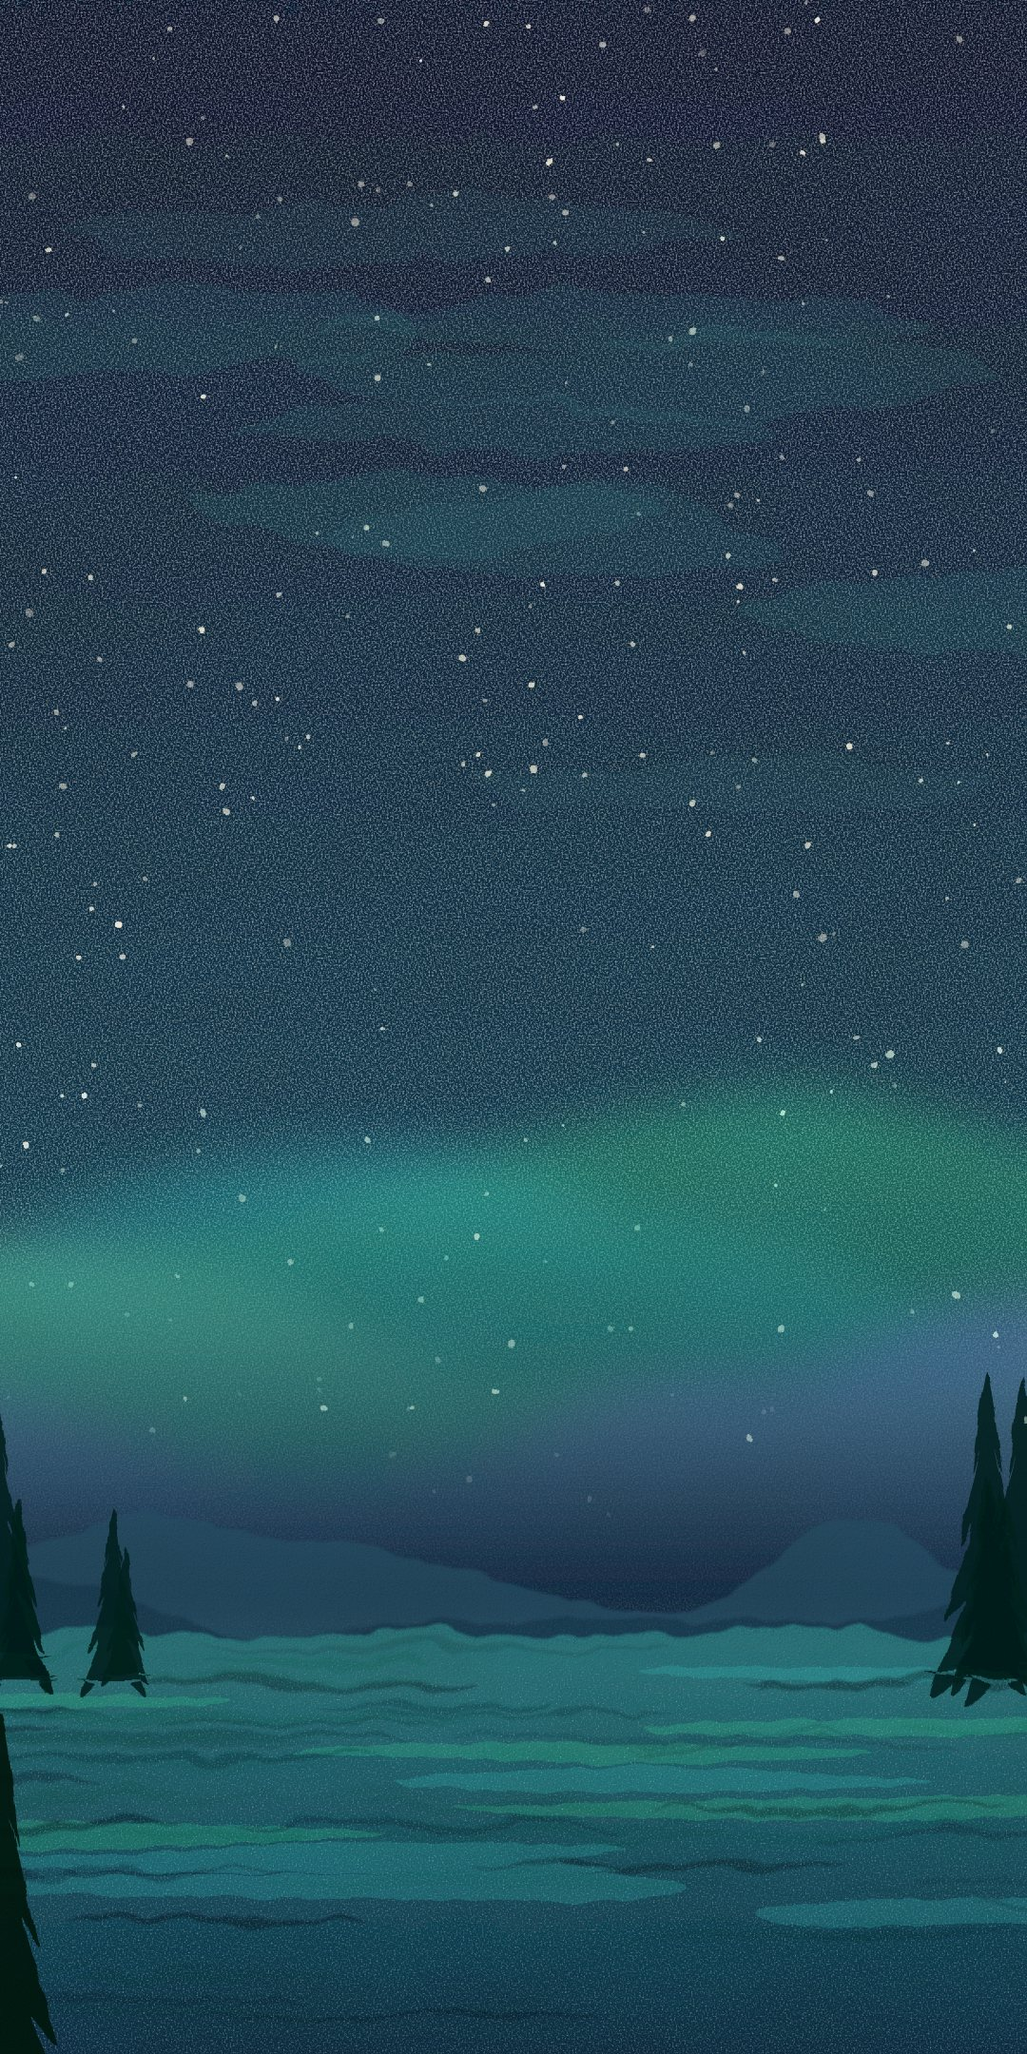
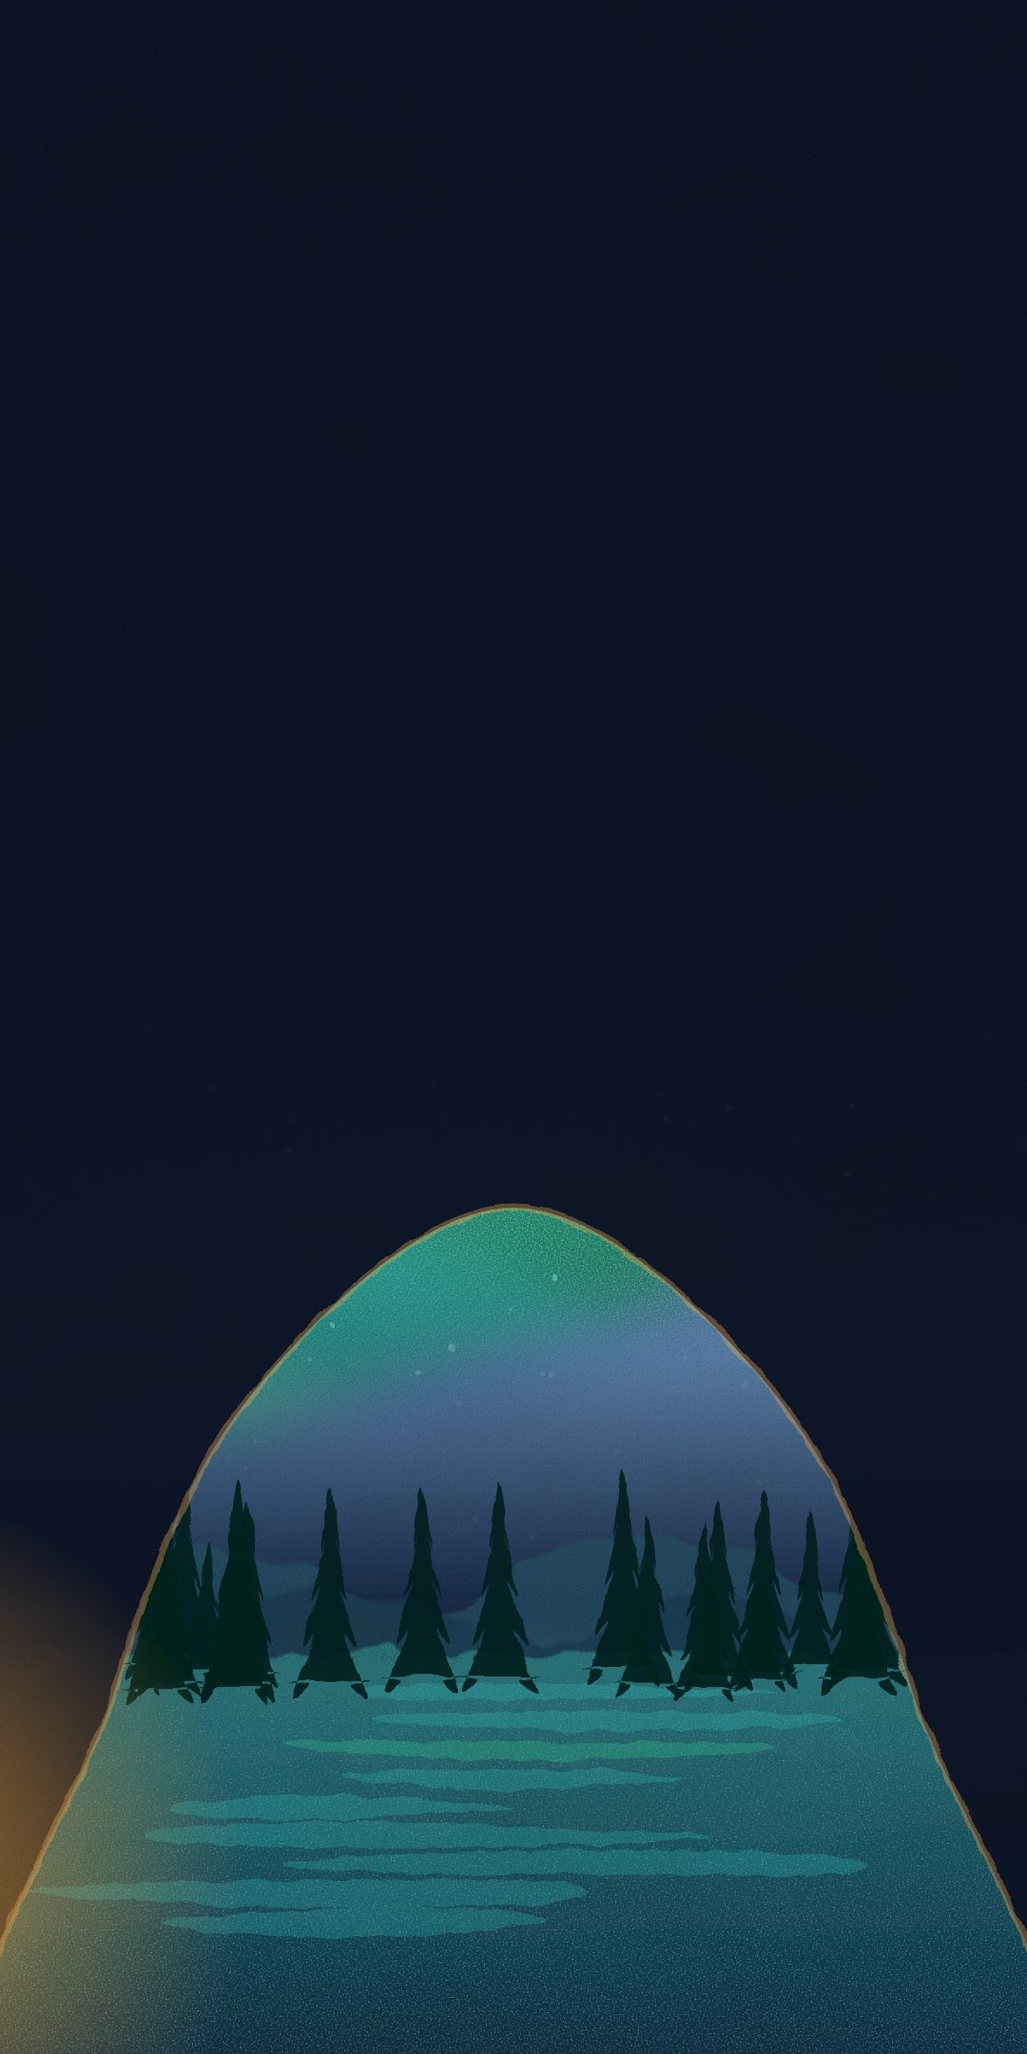
Fondos nuevos con otros puntos de vista: Laguna aérea, Otoño mirando hacia arriba, Aurora desde la tienda, Niebla con puente colgante

diff --git a/index.html b/index.html
@@ -12,7 +12,7 @@
 <link rel="apple-touch-icon" href="img/app/icono-180.png">
 <title>TideTask</title>
 <link rel="icon" id="favicon" href="img/app/icono-192.png">
-<link rel="stylesheet" href="agenda.css?v=58">
+<link rel="stylesheet" href="agenda.css?v=59">
 <style>
   :root {
     /* Los define cada escena desde JS */
@@ -297,7 +297,7 @@
     .tabs button.on span { font-weight: 600; }
   }
 </style>
-<link rel="stylesheet" href="acuarela.css?v=58">
+<link rel="stylesheet" href="acuarela.css?v=59">
 </head>
 <body data-vista="agenda">
 
@@ -470,8 +470,8 @@
 <div class="toast" id="toast"></div>
 
 <script>window.NUBE_ACTIVA = true;   // sincronización con Google Drive (origen https://areslevel.github.io autorizado en el cliente OAuth)</script>
-<script src="nube.js?v=58"></script>
-<script src="agenda.js?v=58"></script>
+<script src="nube.js?v=59"></script>
+<script src="agenda.js?v=59"></script>
 <script>
   // ============ Utilidades ============
   const $ = id => document.getElementById(id);

diff --git a/generar_acuarelas.py b/generar_acuarelas.py
@@ -9,7 +9,7 @@ VERT = "--v" in sys.argv
 CW, CH = (1080, 2160) if VERT else (W, H)     # tamaño del lienzo visible
 DY = CH - H if VERT else 0                    # cuánto cielo se añade por encima
 X0 = {"amarillo": 840, "azul": 380, "rosado": 100, "verde": 420, "morado": 840, "naranja": 480,
-      "turquesa": 380, "rojo": 400, "aurora": 380, "niebla": 420}
+      "turquesa": 420, "rojo": 420, "aurora": 420, "niebla": 420}
 VX = 0                                        # borde izquierdo visible (se fija por escena)
 AQUI = os.path.dirname(os.path.abspath(__file__))
 OUT = os.environ.get("ACUARELA_OUT") or os.path.join(AQUI, "img")
@@ -447,98 +447,100 @@ def naranja():
     return e
 
 
-# ---------------------------------------------------------------- TURQUESA: laguna con palmeras
-def palmera(e, x, base, alto, inc):
+# ---------------------------------------------------------------- TURQUESA: laguna vista desde arriba (aérea)
+def vista_palmera(e, x, y, s):
     r = e.r
-    tx, ty = x + inc, base - alto
-    tr = [e.linea(f"M{n(x)} {n(base)} Q{n(x + inc * .2)} {n(base - alto * .6)} {n(tx)} {n(ty)}", "#6b4a35", max(6, alto * .04), .9)]
-    hojas = []
-    for i in range(9):
-        a = -math.pi * (.05 + .9 * i / 8) + r.uniform(-.1, .1)
-        L = alto * r.uniform(.45, .62)
-        ex, ey = tx + math.cos(a) * L, ty + math.sin(a) * L * .7 + L * .35
-        hojas.append(e.linea(f"M{n(tx)} {n(ty)} Q{n(tx + math.cos(a) * L * .5)} {n(ty + math.sin(a) * L * .6 - 25)} {n(ex)} {n(ey)}",
-                             r.choice(["#2f8a62", "#3fa874", "#1f6f52"]), max(5, alto * .035), .85))
-    return tr, hojas
+    it = []
+    for i in range(10):
+        a = 2 * math.pi * i / 10 + r.uniform(-.12, .12)
+        L = s * r.uniform(.8, 1.05)
+        ex, ey = x + math.cos(a) * L, y + math.sin(a) * L * .92
+        mx, my = x + math.cos(a + .25) * L * .55, y + math.sin(a + .25) * L * .5
+        it.append(e.linea(f"M{n(x)} {n(y)} Q{n(mx)} {n(my)} {n(ex)} {n(ey)}", r.choice(["#1f7a52", "#2f9a68", "#3fb27a"]), max(5, s * .11), .85))
+    it.append(e.circ(x, y, s * .1, "#6b4a35", .95))
+    return it
 
 
 def turquesa():
     e = Esc(71, "#f4f9f3")
     r = e.r
-    hz = 600
-    e.g([e.full(e.grad([(0, "#7fd6e0"), (.55, "#c4f0ea"), (1, "#fff4d6")]))])
-    halo(e, 1450, 230, 400, "#fffbe0", .9)
-    e.g([e.p(e.blob(1450, 230, 100, 100, 11, .03), "#fff6c4", .95, False)], "fino", mult=False)
-    e.g([e.p(e.blob(r.uniform(0, W), r.uniform(80, 420), r.uniform(180, 320), r.uniform(26, 46), 9, .22), "#ffffff", .75, False) for _ in range(6)], mult=False)
-    e.g([e.p(e.cresta(hz - 16, 16, 100, 150, 700, hz + 4), "#5fb3b0", .55)])
-    e.g([e.p(f"M-100 {hz} L{W + 100} {hz} L{W + 100} {H + 100} L-100 {H + 100} Z", e.grad([(0, "#7fe0dc"), (.4, "#27bfc4"), (1, "#0a7f94")]), 1, False)], mult=False)
-    olas = []
-    for _ in range(120):
-        y = hz + 8 + (r.random() ** 1.4) * (H - hz)
-        k = (y - hz) / (H - hz)
-        olas.append(e.p(e.blob(r.uniform(-50, W + 50), y, r.uniform(90, 260) * (.5 + k), r.uniform(2.5, 6) * (.5 + k * 1.6), 8, .25),
-                        r.choice(["#e6fffb", "#0c7d90", "#5fd6d2", "#1aa5b5"]), r.uniform(.25, .5), False))
-    e.g(olas)
-    # bajío de arena en primer plano (derecha)
-    e.g([e.p(e.blob(1500, 1000, 640, 150, 9, .2), "#f6e2b4", .95, False), e.p(e.blob(1560, 980, 420, 90, 9, .2), "#fff1cf", .8, False)], mult=False)
-    # isla con palmeras
-    e.g([e.p(e.blob(450, 900, 520, 120, 9, .18), "#f1d9a0", .95, False), e.p(e.blob(430, 880, 300, 70, 9, .2), "#7cc27a", .8)], mult=False)
-    for (x, b, a, inc) in ((300, 880, 470, -70), (470, 890, 560, 60), (640, 900, 380, 90), (1560, 990, 330, -50)):
-        tr, hj = palmera(e, x, b, a, inc)
-        e.g(tr, "fino", mult=False)
-        e.g(hj, "fino")
-    # reflejo del sol
-    e.g([e.p(e.blob(1450 + r.uniform(-60, 60), hz + 30 + i * 24, 80 - i * 2.4, 4 + i * .18, 8, .3), "#fffbe0", .55 - i * .012, False) for i in range(16)], "fino", mult=False)
-    e.g(e.salpicar(35, "#ffffff", 0, 0, W, H, 6, .7), "fino", mult=False)
+    e.g([e.full(e.grad([(0, "#0a7f94"), (.5, "#16aab8"), (1, "#4fd2cf")], 1, 1))])
+    e.g([e.p(e.blob(r.uniform(0, W), r.uniform(-DY, H), r.uniform(200, 440), r.uniform(120, 280), 9, .25), r.choice(["#0b6f8a", "#1cb6c2", "#7fe6df"]), .3, False) for _ in range(16)])
+    # aguas someras y bancos de arena alrededor de la isla
+    e.g([e.p(e.blob(1000, 540, 700, 360, 11, .12), "#79e0d8", .75, False), e.p(e.blob(1000, 540, 520, 270, 11, .12), "#a9f0e0", .85, False)], mult=False)
+    for (x, y, rx, ry) in ((380, 840, 200, 90), (1620, 230, 230, 100), (1560, 900, 260, 110), (330, 190, 150, 70)):
+        e.g([e.p(e.blob(x, y, rx * 1.5, ry * 1.6, 9, .15), "#8fe8df", .6, False), e.p(e.blob(x, y, rx, ry, 9, .18), "#f3dfaa", .95, False)], mult=False)
+    e.g([e.p(e.blob(1000, 545, 360, 175, 11, .14), "#f3dfaa", .98, False), e.p(e.blob(990, 535, 250, 110, 11, .15), "#fff1cf", .85, False)], mult=False)
+    e.g([e.p(e.blob(1010, 520, 215, 100, 10, .14), "#6cbf7a", .9, False), e.p(e.blob(1000, 515, 140, 62, 9, .16), "#3f9a68", .55, False)], mult=False)
+    palmas = []
+    for (x, y, s) in ((920, 505, 125), (1100, 545, 105), (1030, 465, 92)):
+        palmas += vista_palmera(e, x, y, s)
+    e.g(palmas, "fino", mult=False)
+    # lancha vista desde arriba con su estela
+    bx, by, ang = 520, 360, -18
+    e.g([e.p(e.blob(bx - 250, by + 40, 280, 14, 8, .25), "#ffffff", .55, False), e.p(e.blob(bx - 190, by + 20, 200, 8, 8, .25), "#ffffff", .5, False)], "fino", mult=False)
+    e.g([f'<g transform="rotate({ang} {bx} {by})"><ellipse cx="{bx}" cy="{by}" rx="78" ry="26" fill="#8a4b2c" fill-opacity=".95"/>'
+         f'<ellipse cx="{bx + 6}" cy="{by}" rx="58" ry="15" fill="#e9c48a" fill-opacity=".95"/><circle cx="{bx - 16}" cy="{by}" r="9" fill="#e8453c" fill-opacity=".9"/></g>'], "fino", mult=False)
+    # destellos del sol sobre el agua
+    e.g([e.linea(f"M{n(x)} {n(y)} q18 -6 36 0 q18 6 36 0", "#e6fffb", 3, r.uniform(.3, .6)) for x, y in ((r.uniform(0, W), r.uniform(-DY, H)) for _ in range(150))], "fino", mult=False)
+    e.g(e.salpicar(30, "#ffffff", 0, -DY, W, H, 5, .6), "fino", mult=False)
     return e
 
 
-# ---------------------------------------------------------------- ROJO: otoño con arces
-def arce(e, x, y, s):
-    r = e.r
-    tr = [e.linea(f"M{n(x)} {n(H + 60)} Q{n(x + r.uniform(-30, 30))} {n((y + H) / 2)} {n(x)} {n(y + s * .3)}", "#4a2f2a", max(8, s * .13), .9)]
-    for sgn in (-1, 1):
-        tr.append(e.linea(f"M{n(x)} {n(y + s * .7)} L{n(x + sgn * s * .55)} {n(y + s * .15)}", "#4a2f2a", max(4, s * .06), .85))
-    copa = []
-    for _ in range(14):
-        copa.append(e.p(e.blob(x + r.uniform(-s, s) * .85, y + r.uniform(-s, s * .3) * .8, s * r.uniform(.28, .5), s * r.uniform(.22, .4), 8, .25),
-                        r.choice(["#c8281e", "#e5502a", "#f08a2a", "#a21c24", "#f2b134"]), r.uniform(.5, .75), False))
-    return tr, copa
+# ---------------------------------------------------------------- ROJO: mirando hacia arriba entre las copas del otoño
+def tronco_fuga(e, bx, ancho, cx, cy, c, op):
+    pts_i, pts_d = [], []
+    for k in range(9):
+        t = k / 8
+        x = bx + (cx + (bx - cx) * .3 - bx) * t * t + (cx - bx) * .12 * t
+        y = H + 80 + (cy + 40 - H - 80) * t
+        w = ancho * (1 - t * .85)
+        pts_i.append((x - w / 2, y))
+        pts_d.append((x + w / 2, y))
+    return e.p(suave(pts_i + pts_d[::-1], True), c, op)
 
 
 def rojo():
     e = Esc(83, "#fbf1e6")
     r = e.r
-    hz = 700
-    e.g([e.full(e.grad([(0, "#f6c9a6"), (.5, "#fbe0c0"), (1, "#fff0d8")]))])
-    halo(e, 600, 330, 380, "#fff3d6", .9)
-    e.g([e.p(e.blob(600, 330, 95, 95, 11, .03), "#fff0cf", .93, False)], "fino", mult=False)
-    e.g([e.p(e.cresta(hz - 40, 60, 260), "#d6866a", .45)])
-    e.g([e.p(e.cresta(hz + 10, 40, 220), "#b8523a", .55)])
-    e.g([e.p(e.cresta(hz + 80, 25, 240), "#d99a4a", .8)], mult=False)
-    # camino en perspectiva cubierto de hojas
-    e.g([e.p(suave([(930, hz + 70), (1010, hz + 70), (1130, 860), (1560, H + 90), (380, H + 90), (800, 860)], True), "#e8b36a", .85)], mult=False)
-    hojas = []
-    for _ in range(200):
-        y = r.uniform(hz + 90, H)
-        k = (y - hz) / (H - hz)
-        x = r.uniform(300, 1700)
-        hojas.append(e.p(e.blob(x, y, r.uniform(8, 20) * (.4 + k), r.uniform(5, 11) * (.4 + k), 6, .2, r.uniform(0, 3)),
-                         r.choice(["#c8281e", "#e5502a", "#f08a2a", "#a21c24"]), r.uniform(.5, .8), False))
-    e.g(hojas, "fino", mult=False)
-    for (x, y, s) in ((130, 380, 330), (1780, 340, 360), (520, 560, 190), (1430, 590, 200), (1050, 640, 130)):
-        t, c = arce(e, x, y, s)
-        e.g(t, "fino", mult=False)
-        e.g(c)
-    caen = []
+    cx, cy = 960, 330
+    e.g([e.full(e.grad([(0, "#f2a77a"), (.5, "#f9c999"), (1, "#fde3b4")]))])
+    halo(e, cx, cy, 460, "#fff6dc", 1)
+    e.g([f'<polygon points="{cx - 40},{cy} {cx + 40},{cy} {cx + 420},{H + 60} {cx - 420},{H + 60}" fill="#fff3cf" fill-opacity=".3"/>'], "brillo", mult=False)
+    # troncos que se juntan hacia arriba (visto desde abajo)
+    for bx, a in ((90, 190), (420, 140), (760, 100), (1160, 100), (1500, 140), (1830, 190)):
+        e.g([tronco_fuga(e, bx + r.uniform(-30, 30), a, cx, cy, "#4a2f2a", .88)], "fino", mult=False)
+    # ramas hacia el centro
+    ramas = []
+    for _ in range(14):
+        sx = r.uniform(150, 1770)
+        sy = r.uniform(300, 760)
+        d = 1 if sx < cx else -1
+        ramas.append(e.linea(f"M{n(sx)} {n(sy)} q{n(d * r.uniform(60, 160))} {n(-r.uniform(40, 110))} {n(d * r.uniform(150, 300))} {n(-r.uniform(80, 200))}", "#4a2f2a", r.uniform(5, 14), .8))
+    e.g(ramas, "fino", mult=False)
+    # copas alrededor del claro de cielo
+    copas = []
     for _ in range(90):
-        x, y = r.uniform(0, W), r.uniform(60, H)
-        caen.append(e.p(e.blob(x, y, r.uniform(7, 14), r.uniform(4, 8), 6, .2, r.uniform(0, 3)), r.choice(["#d8321e", "#f08a2a", "#f2b134"]), .75, False))
+        a = r.uniform(0, 2 * math.pi)
+        d = r.uniform(300, 1000)
+        x, y = cx + math.cos(a) * d * 1.75, cy + math.sin(a) * d * .95
+        s = r.uniform(80, 210) * (.7 + d / 1100)
+        copas.append(e.p(e.blob(x, y, s * 1.2, s * .85, 8, .28), r.choice(["#c8281e", "#e5502a", "#f08a2a", "#a21c24", "#f2b134"]), r.uniform(.5, .78), False))
+    for _ in range(max(0, int(DY / 38))):
+        x, y = r.uniform(VX - 60, VX + CW + 60), r.uniform(-DY, 60)
+        s = r.uniform(110, 230)
+        copas.append(e.p(e.blob(x, y, s * 1.2, s * .85, 8, .28), r.choice(["#c8281e", "#e5502a", "#f08a2a", "#a21c24", "#f2b134"]), r.uniform(.55, .8), False))
+    e.g(copas)
+    # hojas cayendo
+    caen = []
+    for _ in range(130):
+        x, y = r.uniform(0, W), r.uniform(-DY, H)
+        caen.append(e.p(e.blob(x, y, r.uniform(7, 16), r.uniform(4, 9), 6, .2, r.uniform(0, 3)), r.choice(["#d8321e", "#f08a2a", "#f2b134"]), .78, False))
     e.g(caen, "fino", mult=False)
     return e
 
 
-# ---------------------------------------------------------------- AURORA: luces del norte sobre el lago
+# ---------------------------------------------------------------- AURORA: desde dentro de la tienda de campaña
 def pino(e, x, base, alto, c, op):
     ancho = alto * .38
     der = [(x, base - alto)]
@@ -553,52 +555,83 @@ def pino(e, x, base, alto, c, op):
 def aurora():
     e = Esc(97, "#eef4f4")
     r = e.r
-    hz = 640
+    hz = 660
     e.g([e.full(e.grad([(0, "#06122e"), (.55, "#0f3a52"), (1, "#1d6a72")]))])
-    e.g([e.circ(r.uniform(0, W), r.uniform(0, 520), r.uniform(1.4, 3.4), "#f4fffb", r.uniform(.5, .95)) for _ in range(90)], "fino", mult=False)
+    e.g([e.circ(r.uniform(500, 1420), r.uniform(60, 560), r.uniform(1.4, 3.4), "#f4fffb", r.uniform(.5, .95)) for _ in range(60)], "fino", mult=False)
     cortinas = []
     for i, col in enumerate(["#3cf2a2", "#35d6d8", "#7be8c8", "#8a7cf0"]):
-        pts = [(x, 160 + 70 * i + math.sin(x / 260 + i * 1.7) * 90 + r.uniform(-25, 25)) for x in range(-100, W + 200, 190)]
+        pts = [(x, 200 + 55 * i + math.sin(x / 200 + i * 1.7) * 80 + r.uniform(-20, 20)) for x in range(300, 1700, 150)]
         g = e.grad([(0, col), (1, "#06122e")], 0, 1)
-        cortinas.append(f'<path d="{suave(pts)} L{W + 200} {hz} L-100 {hz} Z" fill="{g}" fill-opacity=".34"/>')
+        cortinas.append(f'<path d="{suave(pts)} L1700 {hz} L300 {hz} Z" fill="{g}" fill-opacity=".5"/>')
     e.g(cortinas, "brillo", mult=False)
-    e.g([e.p(e.cresta(hz - 90, 70, 200, -100, W + 100, hz + 4), "#274f68", .85)], mult=False)
-    e.g([e.p(e.cresta(hz - 40, 40, 170, -100, W + 100, hz + 4), "#1b3a52", .9)], mult=False)
-    # lago con reflejo
-    e.g([e.p(f"M-100 {hz} L{W + 100} {hz} L{W + 100} {H + 100} L-100 {H + 100} Z", e.grad([(0, "#2a7a82"), (.5, "#134a5e"), (1, "#071b36")]), 1, False)], mult=False)
-    e.g([e.p(e.blob(r.uniform(300, 1500), hz + 40 + i * 28, r.uniform(200, 420), 8 + i, 8, .3), r.choice(["#3cf2a2", "#35d6d8"]), .2, False) for i in range(10)], "fino", mult=False)
-    e.g([e.p(e.blob(r.uniform(-50, W + 50), hz + 10 + (r.random() ** 1.4) * (H - hz), r.uniform(100, 280), r.uniform(2.5, 6), 8, .25), r.choice(["#04122c", "#2a7a82", "#7be8c8"]), r.uniform(.2, .4), False) for _ in range(70)])
-    # pinos a ambos lados
-    pinos = []
-    for _ in range(26):
-        x = r.choice([r.uniform(-60, 520), r.uniform(1400, 1980)])
-        pinos.append(pino(e, x, hz + r.uniform(20, 60), r.uniform(120, 340), "#07201f", .88))
-    for x, a in ((120, 560), (1800, 640), (380, 420), (1560, 470)):
-        pinos.append(pino(e, x, H + 60, a, "#041411", .93))
+    e.g([e.p(e.cresta(hz - 80, 50, 170, 300, 1700, hz + 4), "#274f68", .85)], mult=False)
+    e.g([e.p(e.cresta(hz - 36, 30, 150, 300, 1700, hz + 4), "#1b3a52", .9)], mult=False)
+    e.g([e.p(f"M300 {hz} L1700 {hz} L1700 {H + 100} L300 {H + 100} Z", e.grad([(0, "#2a7a82"), (.5, "#134a5e"), (1, "#071b36")]), 1, False)], mult=False)
+    e.g([e.p(e.blob(r.uniform(700, 1200), hz + 40 + i * 30, r.uniform(160, 320), 8 + i, 8, .3), r.choice(["#3cf2a2", "#35d6d8"]), .22, False) for i in range(9)], "fino", mult=False)
+    pinos = [pino(e, r.uniform(560, 1360), hz + r.uniform(8, 36), r.uniform(80, 220), "#07201f", .9) for _ in range(22)]
     e.g(pinos, "fino", mult=False)
-    e.g(e.salpicar(30, "#dffff4", 0, 0, W, 500, 4, .8), "fino", mult=False)
+    # tela de la tienda: todo lo que queda fuera del arco de la entrada
+    arco = suave([(430, H + 160), (540, 700), (690, 380), (960, 190), (1230, 380), (1380, 700), (1490, H + 160)], True)
+    e.b.append(f'<path d="M-400 {-DY - 400} H{W + 400} V{H + 400} H-400 Z {arco}" fill="#0c1326" fill-opacity=".97" fill-rule="evenodd"/>')
+    e.g([e.p(e.blob(r.choice([250, 1700]), r.uniform(0, H), 150, 520, 8, .2), "#1a2442", .55, False) for _ in range(5)], "fino", mult=False)
+    e.g([e.linea(arco, "#ffb55a", 7, .35)], "fino", mult=False)
+    # farol dentro de la tienda
+    halo(e, 260, 900, 420, "#ffb040", .7)
+    e.g([e.p(e.blob(260, 920, 34, 52, 8, .1), "#ffd27a", .95, False), e.linea("M260 880 L260 860", "#3a2a1a", 5, .9)], "fino", mult=False)
+    e.g(e.salpicar(14, "#ffd27a", 120, 700, 420, 1050, 4, .7), "fino", mult=False)
     return e
 
 
-# ---------------------------------------------------------------- GRIS: montañas entre la niebla
+# ---------------------------------------------------------------- GRIS: puente colgante que se pierde en la niebla
 def niebla():
     e = Esc(101, "#f1f2f1")
     r = e.r
-    e.g([e.full(e.grad([(0, "#bfcad6"), (.5, "#dde3e8"), (1, "#f2efe8")]))])
-    halo(e, 1250, 260, 360, "#ffffff", .85)
-    e.g([e.p(e.blob(1250, 260, 85, 85, 11, .03), "#fbfbf6", .9, False)], "fino", mult=False)
-    capas = [(430, 90, "#9fb0c4", .5), (520, 70, "#8498b0", .55), (620, 55, "#6a809c", .62), (730, 40, "#506784", .7), (850, 30, "#3a5070", .8)]
+    hz, cx = 560, 960
+    half = lambda y: (y - hz) * .62
+    e.g([e.full(e.grad([(0, "#bfcad6"), (.5, "#dde3e8"), (1, "#eef0ee")]))])
+    halo(e, 1250, 250, 340, "#ffffff", .85)
+    e.g([e.p(e.blob(1250, 250, 80, 80, 11, .03), "#fbfbf6", .9, False)], "fino", mult=False)
+    capas = [(380, 80, "#9fb0c4", .5), (440, 60, "#8498b0", .55), (500, 45, "#6a809c", .62)]
     for (b, a, c, op) in capas:
         e.g([e.p(e.cresta(b, a, 230), c, op)])
-        e.g([e.p(e.blob(r.uniform(300, 1700), b + 70, r.uniform(420, 700), r.uniform(26, 48), 9, .25), "#f4f6f7", .72, False) for _ in range(3)], mult=False)
-    pinos = []
-    for _ in range(34):
-        pinos.append(pino(e, r.uniform(-40, W + 40), 960 + r.uniform(0, 80), r.uniform(90, 240), r.choice(["#2c4260", "#243750"]), .8))
-    for x, a in ((160, 520), (1760, 600), (460, 330), (1480, 380)):
-        pinos.append(pino(e, x, H + 60, a, "#1c2c44", .88))
-    e.g(pinos, "fino", mult=False)
-    e.g([e.p(e.blob(r.uniform(0, W), r.uniform(880, 1040), r.uniform(380, 640), r.uniform(26, 44), 9, .25), "#f4f6f7", .55, False) for _ in range(4)], mult=False)
-    e.g(e.salpicar(35, "#ffffff", 0, 0, W, H, 5, .6), "fino", mult=False)
+        e.g([e.p(e.blob(r.uniform(300, 1700), b + 60, r.uniform(380, 640), r.uniform(24, 44), 9, .25), "#f4f6f7", .7, False) for _ in range(3)], mult=False)
+    # abismo bajo el puente, con bruma
+    e.g([e.p(f"M-100 {hz - 10} L{W + 100} {hz - 10} L{W + 100} {H + 100} L-100 {H + 100} Z", e.grad([(0, "#e4e9ed"), (.5, "#a8b6c6"), (1, "#5a7090")]), .95, False)], mult=False)
+    e.g([e.p(e.blob(r.uniform(0, W), r.uniform(hz + 40, H), r.uniform(300, 600), r.uniform(20, 40), 9, .25), "#f4f6f7", .6, False) for _ in range(7)], mult=False)
+    # riscos a los lados
+    e.g([e.p(suave([(-100, 320), (240, 420), (520, 640), (640, H + 100), (-100, H + 100)], True), "#2c4260", .88, False),
+         e.p(suave([(W + 100, 320), (1680, 420), (1400, 640), (1280, H + 100), (W + 100, H + 100)], True), "#2c4260", .88, False)], mult=False)
+    # tablero del puente en perspectiva
+    yb = H + 60
+    e.g([e.p(f"M{cx - 5} {hz} L{cx + 5} {hz} L{cx + half(yb)} {yb} L{cx - half(yb)} {yb} Z", "#9a7a54", .95, False)], mult=False)
+    tablas = []
+    for i in range(1, 38):
+        t = (i / 38) ** 2.0
+        y = hz + (yb - hz) * t
+        hw = half(y)
+        tablas.append(e.linea(f"M{n(cx - hw)} {n(y)} L{n(cx + hw)} {n(y)}", "#4a3322", 1.5 + t * 11, .65))
+    e.g(tablas, "fino", mult=False)
+    # barandillas: postes y cuerdas
+    cuerdas_i, cuerdas_d, postes = [], [], []
+    for j in range(0, 11):
+        t = (j / 10) ** 1.9
+        y = hz + (yb - hz) * t
+        k = (y - hz) / (yb - hz)
+        alto = 190 * k + 6
+        for sg, lst in ((-1, cuerdas_i), (1, cuerdas_d)):
+            x = cx + sg * (half(y) + 10)
+            postes.append(e.linea(f"M{n(x)} {n(y)} L{n(x)} {n(y - alto)}", "#4a3322", 3 + 11 * k, .9))
+            lst.append((x, y - alto))
+    for lst in (cuerdas_i, cuerdas_d):
+        postes.append(e.linea(suave(lst), "#6a4a30", 5, .9))
+        # cuerda baja
+        postes.append(e.linea(suave([(x, y + (yb - y) * 0 + (a_ * 0.55)) for (x, y), a_ in zip(lst, [0] * len(lst))]), "#6a4a30", 3, .5))
+    e.g(postes, "fino", mult=False)
+    # niebla que se come el fondo del puente
+    halo(e, cx, hz + 10, 360, "#f1f4f6", 1)
+    e.g([e.p(e.blob(cx + r.uniform(-300, 300), r.uniform(hz - 30, hz + 90), r.uniform(260, 460), r.uniform(18, 34), 9, .25), "#f7f8f8", .8, False) for _ in range(4)], mult=False)
+    e.g([e.p(e.blob(r.uniform(0, W), r.uniform(900, 1040), r.uniform(380, 620), r.uniform(24, 40), 9, .25), "#f4f6f7", .5, False) for _ in range(3)], mult=False)
+    e.g(e.salpicar(30, "#ffffff", 0, 0, W, H, 5, .6), "fino", mult=False)
     return e
 
 
@@ -630,7 +663,7 @@ if __name__ == "__main__":
         if VERT:
             VX = X0[nombre]
         e = fn()
-        if VERT:
+        if VERT and nombre not in ("turquesa", "rojo", "aurora"):
             cielo_extra(nombre, e)
         with open(os.path.join(OUT, f"{nombre}{'-v' if VERT else ''}.svg"), "w", encoding="utf-8") as fh:
             fh.write(e.svg())
